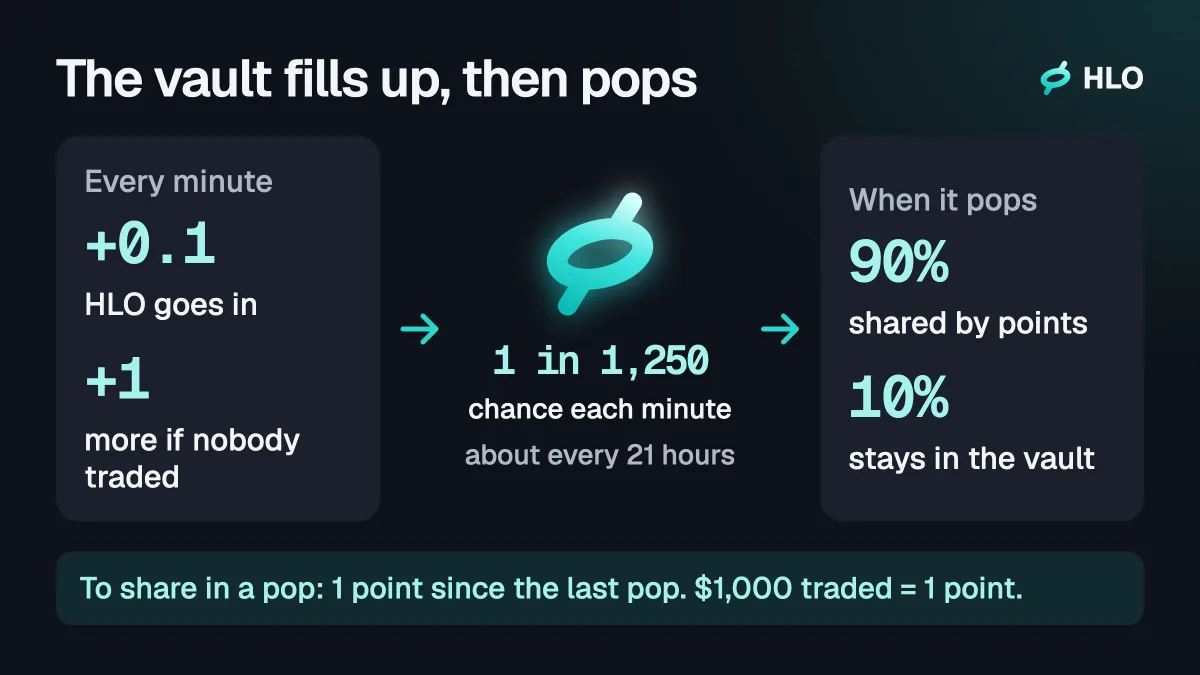
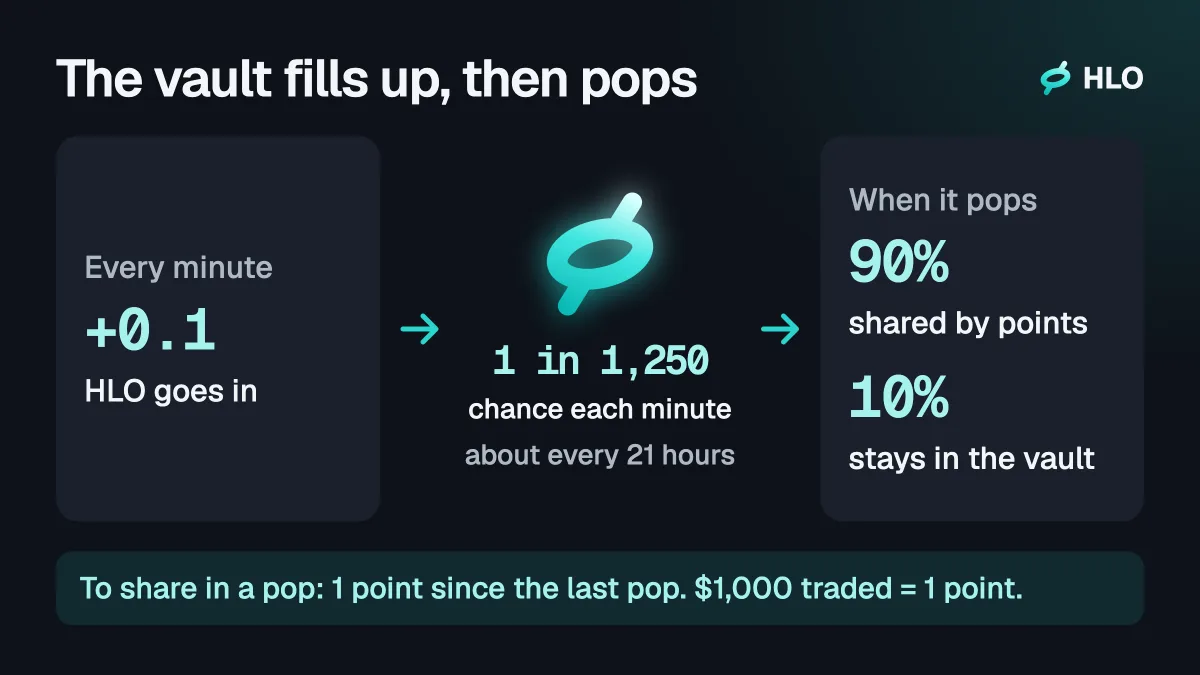
Minutes nobody trades mine nothing (999 from minute 2220): the vault gains only its 0.1 HLO; no contract change

Changed region(s): [[0.0617, 0.3111, 0.2467, 0.7467], [0.0617, 0.2489, 0.2467, 0.28]]

diff --git a/calc/test/checkpoint.property.test.ts b/calc/test/checkpoint.property.test.ts
@@ -29,7 +29,7 @@ describe("emission accounting", () => {
           let popCount = 0;
           let last;
           for (const end of ends) {
-            last = applyCheckpoint(s, { minimum: MINIMUM,
+            last = applyCheckpoint(s, { minimum: MINIMUM, quietFrom: null,
               throughMinute: end, refBlock: 1n, rows: rows.filter((r) => r.minute >= from && r.minute <= end),
               seeds: seedsFor(from, end, { odds: ODDS, pop }), burned: 0n, refined: 0n, claimed: new Map(),
             });
@@ -42,6 +42,47 @@ describe("emission accounting", () => {
           expect(toTraders + popped + last!.vault).toBe(30n * 11n * 10n ** 17n);
           expect(last!.totalEntitled).toBe(toTraders + popped);
           expect(popCount).toBe(pop.length);
+        },
+      ),
+    );
+  });
+});
+
+describe("minutes nobody trades (spec 2026-11-04)", () => {
+  it("from quietFrom on, a minute without fees adds only 0.1 HLO; the money still adds up, however the minutes are split", () => {
+    fc.assert(
+      fc.property(
+        fc.array(fc.tuple(fc.integer({ min: 0, max: 29 }), fc.integer({ min: 0, max: 2 }), fc.bigInt({ min: 1n, max: 10n ** 9n })), { maxLength: 20 }),
+        fc.array(fc.integer({ min: 0, max: 29 }), { maxLength: 6 }),
+        popBits,
+        fc.integer({ min: 0, max: 31 }),
+        (raw, cuts, bits, quietFrom) => {
+          const rows: FeeRow[] = raw.map(([minute, u, fee]) => ({ minute, user: USERS[u], fee }));
+          const pop = popList(bits);
+          const ends = [...new Set([...cuts, 29])].sort((a, b) => a - b);
+          const s = newCalcState(0, ODDS);
+          let from = 0;
+          let toTraders = 0n;
+          let popped = 0n;
+          let emitted = 0n;
+          let last;
+          for (const end of ends) {
+            last = applyCheckpoint(s, {
+              minimum: MINIMUM, quietFrom, throughMinute: end, refBlock: 1n, rows: rows.filter((r) => r.minute >= from && r.minute <= end),
+              seeds: seedsFor(from, end, { odds: ODDS, pop }), burned: 0n, refined: 0n, claimed: new Map(),
+            });
+            toTraders += last.toTraders;
+            emitted += last.emitted;
+            popped += last.pops.reduce((a, p) => a + p.amount, 0n);
+            from = end + 1;
+          }
+          const traded = new Set(rows.map((r) => r.minute));
+          let want = 0n;
+          for (let m = 0; m < 30; m++) want += m >= quietFrom && !traded.has(m) ? 10n ** 17n : 11n * 10n ** 17n;
+          expect(emitted).toBe(want);
+          expect(s.emitted).toBe(want);
+          expect(toTraders + popped + last!.vault).toBe(want);
+          expect(last!.totalEntitled).toBe(toTraders + popped);
         },
       ),
     );
@@ -70,9 +111,9 @@ describe("two checkpoints from a random starting state", () => {
           const pop = popList(bits);
           const s = newCalcState(0, ODDS);
           s.emitted = MAX_SUPPLY - POOL_RESERVE - headroom;
-          const r1 = applyCheckpoint(s, { minimum: MINIMUM, throughMinute: cut, refBlock: 1n, rows: rows.filter((r) => r.minute <= cut), seeds: seedsFor(0, cut, { odds: ODDS, pop }), burned: burned1, refined: refined1, claimed: toMap(claimed1) });
+          const r1 = applyCheckpoint(s, { minimum: MINIMUM, quietFrom: null, throughMinute: cut, refBlock: 1n, rows: rows.filter((r) => r.minute <= cut), seeds: seedsFor(0, cut, { odds: ODDS, pop }), burned: burned1, refined: refined1, claimed: toMap(claimed1) });
           const burned2 = burned1 + extraBurn;
-          const r2 = applyCheckpoint(s, { minimum: MINIMUM, throughMinute: 29, refBlock: 2n, rows: rows.filter((r) => r.minute > cut), seeds: seedsFor(cut + 1, 29, { odds: ODDS, pop }), burned: burned2, refined: refined2, claimed: toMap(claimed2) });
+          const r2 = applyCheckpoint(s, { minimum: MINIMUM, quietFrom: null, throughMinute: 29, refBlock: 2n, rows: rows.filter((r) => r.minute > cut), seeds: seedsFor(cut + 1, 29, { odds: ODDS, pop }), burned: burned2, refined: refined2, claimed: toMap(claimed2) });
 
           // (a) each checkpoint emits 1.1 HLO a minute until the supply room (cap - reserve + burned) runs out, counted from the starting emission
           const perMinute = HLO + HLO / 10n;

diff --git a/calc/test/checkpoint.test.ts b/calc/test/checkpoint.test.ts
@@ -14,10 +14,61 @@ const row = (minute: number, user: `0x${string}`, fee: bigint): FeeRow => ({ min
 /** The next checkpoint for `s` through `throughMinute`, with seeds for exactly its minutes that pop at `pop`. */
 const input = (s: CalcState, o: Partial<CheckpointInput> & { throughMinute: number; pop?: number[] }): CheckpointInput => {
   const { pop, ...rest } = o;
-  return { refBlock: 10n, rows: [], burned: 0n, refined: 0n, claimed: new Map(), minimum: NO_MINIMUM, seeds: seedsFor(s.nextMinute, o.throughMinute, { odds: s.odds, pop }), ...rest };
+  return { refBlock: 10n, rows: [], burned: 0n, refined: 0n, claimed: new Map(), minimum: NO_MINIMUM, quietFrom: null, seeds: seedsFor(s.nextMinute, o.throughMinute, { odds: s.odds, pop }), ...rest };
 };
 /** For inputs whose minute range is itself the fault (no seeds can be built for it). */
-const RAW = { refBlock: 10n, rows: [], burned: 0n, refined: 0n, claimed: new Map(), minimum: NO_MINIMUM, seeds: [] };
+const RAW = { refBlock: 10n, rows: [], burned: 0n, refined: 0n, claimed: new Map(), minimum: NO_MINIMUM, quietFrom: null, seeds: [] };
+
+describe("minutes nobody trades (spec 2026-11-04)", () => {
+  it("before quietFrom an empty minute sends its 1 HLO to the vault; from quietFrom on it is never made", () => {
+    const s = newCalcState(0, ODDS);
+    const r = applyCheckpoint(s, input(s, { throughMinute: 3, quietFrom: 2 }));
+    // m0, m1: 1 + 0.1 each into the vault. m2, m3: only the 0.1.
+    expect(r.emitted).toBe(24n * E);
+    expect(r.toVault).toBe(24n * E);
+    expect(r.vault).toBe(24n * E);
+    expect(s.emitted).toBe(24n * E);
+    expect(r.totalEntitled).toBe(0n);
+  });
+
+  it("a minute with a trader is unchanged: the trader gets the 1 HLO, the vault the 0.1", () => {
+    const s = newCalcState(0, ODDS);
+    const r = applyCheckpoint(s, input(s, { throughMinute: 2, quietFrom: 0, rows: [row(1, A, 5n)] }));
+    expect(r.entitlements.get(A)).toBe(10n * E);
+    expect(r.toTraders).toBe(10n * E);
+    expect(r.vault).toBe(3n * E);
+    expect(r.emitted).toBe(13n * E);
+  });
+
+  it("null keeps the launch rule", () => {
+    const s = newCalcState(0, ODDS);
+    expect(applyCheckpoint(s, input(s, { throughMinute: 1, quietFrom: null })).vault).toBe(22n * E);
+  });
+
+  it("a pop after quiet minutes shares a smaller vault", () => {
+    const s = newCalcState(0, ODDS);
+    const r = applyCheckpoint(s, input(s, { throughMinute: 2, quietFrom: 0, rows: [row(0, A, 100n)], pop: [2] }));
+    // m0: A 1 HLO, vault 0.1. m1, m2: 0.1 each → 0.3; it pops: A gets 0.27, 0.03 stays.
+    expect(r.pops).toEqual([{ minute: 2, block: 1002n, amount: (27n * E) / 10n, kept: (3n * E) / 10n, recipients: 1, pointsTotal: 100n }]);
+    expect(r.vault).toBe((3n * E) / 10n);
+  });
+
+  it("checkpoints split across quietFrom give the same state as one", () => {
+    const rows = [row(0, A, 3n), row(4, B, 7n)];
+    const one = newCalcState(0, ODDS);
+    applyCheckpoint(one, input(one, { throughMinute: 6, quietFrom: 3, rows, pop: [5] }));
+    const two = newCalcState(0, ODDS);
+    applyCheckpoint(two, input(two, { throughMinute: 2, quietFrom: 3, rows: rows.filter((r) => r.minute <= 2), pop: [5] }));
+    applyCheckpoint(two, input(two, { throughMinute: 6, quietFrom: 3, rows: rows.filter((r) => r.minute > 2), pop: [5] }));
+    expect(serializeState(two)).toBe(serializeState(one));
+  });
+
+  it("a quietFrom that is not a safe integer throws before touching the state", () => {
+    const s = newCalcState(0, ODDS);
+    expect(() => applyCheckpoint(s, input(s, { throughMinute: 0, quietFrom: 1.5 }))).toThrow(/quietFrom 1.5 is not a safe integer/);
+    expect(s.nextMinute).toBe(0);
+  });
+});
 
 describe("the minimum to share in a pop", () => {
   const ONE = 100_000_000n; // 1 point in fee units

diff --git a/ops/src/scale-check.ts b/ops/src/scale-check.ts
@@ -1,7 +1,7 @@
 import { createHash } from "node:crypto";
 import { getHeapStatistics } from "node:v8";
 import { gzipSync } from "node:zlib";
-import { applyCheckpoint, buildTree, deserializeState, newCalcState, popMinimum, popOdds, serializeState, type Addr, type FeeRow, type Seed } from "@hlo/calc";
+import { applyCheckpoint, buildTree, deserializeState, newCalcState, popMinimum, popOdds, quietMinuteFrom, serializeState, type Addr, type FeeRow, type Seed } from "@hlo/calc";
 import type { Address, Hex } from "viem";
 import { buildFiles, buildUserFiles, LATEST_PATH } from "./checkpoint-files.js";
 import { toJson } from "./publish.js";
@@ -37,7 +37,7 @@ console.log(`${WALLETS} wallets (heap limit ${mb(getHeapStatistics().heap_size_l
 const state = newCalcState(LAUNCH, popOdds(CHAIN));
 // Minute 0: every wallet trades.
 const rows: FeeRow[] = Array.from({ length: WALLETS }, (_, i) => ({ minute: 0, user: addr(i + 1), fee: 100_000_000n + BigInt(i) }));
-const result = timed("applyCheckpoint (minute 0, every wallet trades)", () => applyCheckpoint(state, { minimum: popMinimum(CHAIN), throughMinute: 0, refBlock: 2n, rows, seeds: [seed(0)], burned: 0n, refined: 0n, claimed: new Map() }));
+const result = timed("applyCheckpoint (minute 0, every wallet trades)", () => applyCheckpoint(state, { minimum: popMinimum(CHAIN), quietFrom: quietMinuteFrom(CHAIN), throughMinute: 0, refBlock: 2n, rows, seeds: [seed(0)], burned: 0n, refined: 0n, claimed: new Map() }));
 const tree = timed("buildTree", () => buildTree(result.entitlements));
 timed("all proofs", () => tree.proofs);
 const args = { chainId: CHAIN, contract: CONTRACT, throughMinute: 0, refBlock: 2n, sig: SIG, publishedAt: LAUNCH + 70, rows: [], result, tree, pops: [] };
@@ -52,7 +52,7 @@ console.log(`user files: ${files.size}; largest ${mb(Math.max(...bodies.map((b) 
 const second: FeeRow[] = Array.from({ length: Math.min(TRADERS, WALLETS) }, (_, i) => ({ minute: 1, user: addr(i + 1), fee: 50_000_000n }));
 const claimed = new Map<Addr, bigint>(Array.from({ length: Math.min(TRADERS, WALLETS) }, (_, i) => [addr(i + 1), 1n] as const));
 const copy = timed("state copy (serialize + deserialize, as the poster does each minute)", () => deserializeState(serializeState(state)));
-const result2 = timed(`applyCheckpoint (minute 1, ${second.length} wallets trade, refining over all)`, () => applyCheckpoint(copy, { minimum: popMinimum(CHAIN), throughMinute: 1, refBlock: 3n, rows: second, seeds: [seed(1)], burned: 0n, refined: 10n ** 18n, claimed }));
+const result2 = timed(`applyCheckpoint (minute 1, ${second.length} wallets trade, refining over all)`, () => applyCheckpoint(copy, { minimum: popMinimum(CHAIN), quietFrom: quietMinuteFrom(CHAIN), throughMinute: 1, refBlock: 3n, rows: second, seeds: [seed(1)], burned: 0n, refined: 10n ** 18n, claimed }));
 const tree2 = timed("buildTree", () => buildTree(result2.entitlements));
 console.log(`root ${tree2.root.slice(0, 10)}…, ${tree2.leaves} leaves`);
 

diff --git a/calc/src/checkpoint.ts b/calc/src/checkpoint.ts
@@ -36,6 +36,7 @@ export interface CheckpointInput {
   refined: bigint; // Σ Mining.Claimed.refined in (previous refBlock, refBlock]
   claimed: ReadonlyMap<Addr, bigint>; // Mining.claimed[user] at refBlock
   minimum: PopMinimum; // popMinimum(chainId): the least a wallet needs to share in a pop
+  quietFrom: number | null; // quietMinuteFrom(chainId): from this minute on, a minute nobody trades mines no trader HLO
 }
 
 /** One pop of the vault (spec 2026-10-30 §2 rule 6). */
@@ -126,9 +127,9 @@ function pop(s: CalcState, minute: number, block: bigint, least: bigint): VaultP
 }
 
 /**
- * Settles minutes nextMinute..throughMinute (spec 2026-10-29 §3 as changed by 2026-10-30 §2): per minute the trader
- * emission, the vault part and dust into the vault, the fees into the points, then the pop test on the minute's seed.
- * Then shares refining. Mutates `s`.
+ * Settles minutes nextMinute..throughMinute (spec 2026-10-29 §3 as changed by 2026-10-30 §2 and 2026-11-04): per minute
+ * the trader emission (none in a minute nobody traded, from `quietFrom` on), the vault part and dust into the vault, the
+ * fees into the points, then the pop test on the minute's seed. Then shares refining. Mutates `s`.
  */
 export function applyCheckpoint(s: CalcState, c: CheckpointInput): CheckpointResult {
   // Validate before touching the state, so a throw leaves `s` unchanged.
@@ -137,6 +138,7 @@ export function applyCheckpoint(s: CalcState, c: CheckpointInput): CheckpointRes
   if (c.refined < 0n) throw new Error(`refined ${c.refined} is negative`);
   if (c.throughMinute < s.nextMinute) throw new Error(`minute ${c.throughMinute} is already checkpointed`);
   if (c.refBlock < s.refBlock) throw new Error(`refBlock ${c.refBlock} is below ${s.refBlock}`);
+  if (c.quietFrom !== null && !Number.isSafeInteger(c.quietFrom)) throw new Error(`quietFrom ${c.quietFrom} is not a safe integer`);
   const first = s.nextMinute;
   const count = c.throughMinute - first + 1;
   if (c.seeds.length !== count) throw new Error(`${c.seeds.length} seeds for the ${count} minutes ${first}..${c.throughMinute}`);
@@ -158,15 +160,17 @@ export function applyCheckpoint(s: CalcState, c: CheckpointInput): CheckpointRes
   const pops: VaultPop[] = [];
 
   for (let m = first; m <= c.throughMinute; m++) {
+    const f = fees.get(m);
+    let F = 0n;
+    if (f) for (const v of f.values()) F += v;
+    const quiet = F === 0n && c.quietFrom !== null && m >= c.quietFrom;
+
     const left = room > s.emitted ? room - s.emitted : 0n;
-    const trader = min(TRADER_PER_MINUTE, left);
+    const trader = quiet ? 0n : min(TRADER_PER_MINUTE, left);
     const vaultPart = min(VAULT_PER_MINUTE, left - trader);
     s.emitted += trader + vaultPart;
     emitted += trader + vaultPart;
 
-    const f = fees.get(m);
-    let F = 0n;
-    if (f) for (const v of f.values()) F += v;
     let paid = 0n;
     if (f && F > 0n) {
       for (const [u, v] of f) {

diff --git a/ops/test/checkpoint-files.test.ts b/ops/test/checkpoint-files.test.ts
@@ -21,7 +21,7 @@ const LAUNCH = 1_800_000_000;
 function args(): BuildArgs {
   const s = newCalcState(LAUNCH, popOdds(998));
   const rows: FeeRow[] = [{ minute: 0, user: A, fee: 100n }, { minute: 1, user: A, fee: 100n }, { minute: 1, user: B, fee: 300n }];
-  const result = applyCheckpoint(s, { minimum: { fromMinute: 0, units: 0n }, throughMinute: 1, refBlock: 10n, rows, seeds: seedsFor(0, 1, { odds: 60 }), burned: 0n, refined: 0n, claimed: new Map() });
+  const result = applyCheckpoint(s, { minimum: { fromMinute: 0, units: 0n }, quietFrom: null, throughMinute: 1, refBlock: 10n, rows, seeds: seedsFor(0, 1, { odds: 60 }), burned: 0n, refined: 0n, claimed: new Map() });
   const tree = buildTree(result.entitlements);
   return {
     chainId: 998, contract: CONTRACT, throughMinute: 1, refBlock: 10n, sig: SIG, publishedAt: LAUNCH + 130, rows, result, tree,
@@ -200,7 +200,7 @@ function userArgs(): BuildArgs {
   const s = newCalcState(LAUNCH, popOdds(998));
   const rows: FeeRow[] = [W1, W2, W3, W4].map((user, i) => ({ minute: 1, user, fee: BigInt(100 * (i + 1)) }));
   const a = args();
-  const result = applyCheckpoint(s, { minimum: { fromMinute: 0, units: 0n }, throughMinute: 1, refBlock: 10n, rows, seeds: seedsFor(0, 1, { odds: 60 }), burned: 0n, refined: 0n, claimed: new Map() });
+  const result = applyCheckpoint(s, { minimum: { fromMinute: 0, units: 0n }, quietFrom: null, throughMinute: 1, refBlock: 10n, rows, seeds: seedsFor(0, 1, { odds: 60 }), burned: 0n, refined: 0n, claimed: new Map() });
   result.points.set(PTS, 5n);
   result.totals.set(PTS, { fees: 5n, mined: 0n, fromVault: 0n, refined: 0n });
   result.totals.set(TOT, { fees: 9n, mined: 0n, fromVault: 0n, refined: 0n });
@@ -305,7 +305,7 @@ describe("buildUserFiles", () => {
 
   it("an empty checkpoint has no files", () => {
     const s = newCalcState(LAUNCH, popOdds(998));
-    const result = applyCheckpoint(s, { minimum: { fromMinute: 0, units: 0n }, throughMinute: 0, refBlock: 10n, rows: [], seeds: seedsFor(0, 0, { odds: 60 }), burned: 0n, refined: 0n, claimed: new Map() });
+    const result = applyCheckpoint(s, { minimum: { fromMinute: 0, units: 0n }, quietFrom: null, throughMinute: 0, refBlock: 10n, rows: [], seeds: seedsFor(0, 0, { odds: 60 }), burned: 0n, refined: 0n, claimed: new Map() });
     expect(buildUserFiles({ ...args(), throughMinute: 0, rows: [], result, tree: buildTree(result.entitlements) }).size).toBe(0);
   });
 

diff --git a/calc/src/pop.ts b/calc/src/pop.ts
@@ -45,6 +45,20 @@ export function popMinimum(chainId: number): PopMinimum {
 
 export const minimumAt = (rule: PopMinimum, minute: number): bigint => (minute >= rule.fromMinute ? rule.units : 0n);
 
+/**
+ * From this minute on, a minute nobody trades (no counted fee) makes no trader HLO: its 1 HLO is never mined, so the
+ * vault gains only its 0.1 (spec 2026-11-04). Before it, that 1 HLO went into the vault, and a fresh verifier replays
+ * those minutes that way. 999 changed at minute 2220 (2026-11-04 01:01 UTC); 998 keeps the launch rule (null: never); anvil from
+ * launch.
+ */
+const QUIET_FROM: Readonly<Record<number, number | null>> = { 999: 2220, 998: null, 31337: 0 };
+
+export function quietMinuteFrom(chainId: number): number | null {
+  const q = Object.hasOwn(QUIET_FROM, chainId) ? QUIET_FROM[chainId] : undefined;
+  if (q === undefined) throw new Error(`no quiet-minute rule for chain ${chainId}`);
+  return q;
+}
+
 /** Spec §2 rule 3: minute m pops if uint256(keccak256(abi.encodePacked(bytes32 hash(B(m)), uint256 m))) % odds == 0. */
 export function popsAt(hash: Hex, minute: number, odds: number): boolean {
   return BigInt(keccak256(encodePacked(["bytes32", "uint256"], [hash, BigInt(minute)]))) % BigInt(odds) === 0n;

diff --git a/ops/src/verifier.ts b/ops/src/verifier.ts
@@ -1,5 +1,5 @@
 import {
-  applyCheckpoint, buildTree, countedFee, DAY, dayOf, deserializeState, minuteOf, newCalcState, parseTableCsv, popMinimum, popOdds, serializeState,
+  applyCheckpoint, buildTree, countedFee, DAY, dayOf, deserializeState, minuteOf, newCalcState, parseTableCsv, popMinimum, popOdds, quietMinuteFrom, serializeState,
   type Addr, type ApiFill, type CalcState, type FeeRow, type Seed,
 } from "@hlo/calc";
 import type { Address, Hex } from "viem";
@@ -409,7 +409,7 @@ export class Verifier {
       throw e;
     }
     const next = deserializeState(serializeState(this.state));
-    const result = applyCheckpoint(next, { throughMinute: M, refBlock, rows, seeds, burned: snap.burned, refined: snap.refined, claimed: snap.claimed, minimum: popMinimum(this.deps.chainId) });
+    const result = applyCheckpoint(next, { throughMinute: M, refBlock, rows, seeds, burned: snap.burned, refined: snap.refined, claimed: snap.claimed, minimum: popMinimum(this.deps.chainId), quietFrom: quietMinuteFrom(this.deps.chainId) });
     const root = buildTree(result.entitlements).root;
     const replayProblems: string[] = [];
     if (lower(root) !== lower(file.root)) replayProblems.push(`root: file ${file.root}, replay ${root}`);

diff --git a/ops/src/poster.ts b/ops/src/poster.ts
@@ -1,5 +1,5 @@
 import {
-  applyCheckpoint, buildTree, deserializeState, newCalcState, popMinimum, popOdds, serializeState, type CalcState, type Seed,
+  applyCheckpoint, buildTree, deserializeState, newCalcState, popMinimum, popOdds, quietMinuteFrom, serializeState, type CalcState, type Seed,
 } from "@hlo/calc";
 import type { Address, Hex } from "viem";
 import {
@@ -293,7 +293,7 @@ export class Poster {
     // Work on a copy: nothing in memory moves until the write-ahead file is on disk.
     const next = deserializeState(serializeState(this.state));
     const rows = d.ingest.rows(M, M);
-    const result = applyCheckpoint(next, { throughMinute: M, refBlock, rows, seeds, burned: snap.burned, refined: snap.refined, claimed: snap.claimed, minimum: popMinimum(d.chainId) });
+    const result = applyCheckpoint(next, { throughMinute: M, refBlock, rows, seeds, burned: snap.burned, refined: snap.refined, claimed: snap.claimed, minimum: popMinimum(d.chainId), quietFrom: quietMinuteFrom(d.chainId) });
     const tree = buildTree(result.entitlements);
     await d.checkSigner();
     const sig = await d.sign({ throughMinute: M, refBlock, root: tree.root, totalEntitled: result.totalEntitled });

diff --git a/ops/test/verifier.test.ts b/ops/test/verifier.test.ts
@@ -946,6 +946,20 @@ describe("recovery: former posters, cancelled minutes, guardian actions", () => 
   });
 });
 
+describe("minutes nobody trades (spec 2026-11-04)", () => {
+  it("the poster and verifier both apply the chain's quiet-minute rule: on anvil a minute with no fee adds only 0.1 HLO", async () => {
+    // anvil: odds 1 (every minute pops), no minimum, quiet minutes from launch. A trades in minute 0 only.
+    const fx = await posterRun({ minutes: 4, chainId: 31337, fills: { [A]: [good(1, (L + 5) * 1000)] } });
+    const latest = JSON.parse(fx.files.get("latest.json")!);
+    // m0: A 1 HLO, vault 0.1, pops: A 0.09, 0.01 stays. m1..m3: +0.1 each, popping with no points: 0.31 (the launch rule: 3.31).
+    expect(latest.vault.amount).toBe((31n * 10n ** 16n).toString());
+    const f = verifier(fx, { chainId: 31337 });
+    expect(await f.v.tick()).toBe("ok");
+    expect(f.alerts).toEqual([]);
+    expect(f.pause).not.toHaveBeenCalled();
+  });
+});
+
 describe("Verifier.tick: a missing file", () => {
   it("waits quietly for 5 minutes past the minute's end, then alerts once for that minute", async () => {
     const fx = await posterRun({ minutes: 2 });

diff --git a/app/test/helpers/checkpoint-fixture.ts b/app/test/helpers/checkpoint-fixture.ts
@@ -31,7 +31,7 @@ export async function makeLatest(opts: { signer?: typeof FIX_POSTER_ACCOUNT; thr
   const rows: FeeRow[] = [];
   for (let m = 0; m <= through; m++) FIX_USERS.forEach((u, i) => rows.push({ minute: m, user: u as Addr, fee: BigInt((i + 1) * 100_000_000 + m) }));
   const seeds = seedsFor(0, through, { odds, pop: [FIX_POP_MINUTE], block: (m) => 70n + BigInt(m) });
-  const result = applyCheckpoint(state, { minimum: { fromMinute: 0, units: 0n }, throughMinute: through, refBlock: FIX_REF_BLOCK, rows, seeds, burned: 0n, refined: 0n, claimed: new Map() });
+  const result = applyCheckpoint(state, { minimum: { fromMinute: 0, units: 0n }, quietFrom: null, throughMinute: through, refBlock: FIX_REF_BLOCK, rows, seeds, burned: 0n, refined: 0n, claimed: new Map() });
   const tree = buildTree(result.entitlements);
   const cp = { throughMinute: through, refBlock: FIX_REF_BLOCK, root: tree.root as Hex, totalEntitled: result.totalEntitled };
   const sig = await signCheckpoint(opts.signer ?? FIX_POSTER_ACCOUNT, FIX_CHAIN_ID, FIX_CONTRACT, cp);

diff --git a/calc/test/pop.test.ts b/calc/test/pop.test.ts
@@ -1,7 +1,7 @@
 import fc from "fast-check";
 import { concat, keccak256, pad, toHex, type Hex } from "viem";
 import { describe, expect, it } from "vitest";
-import { popOdds, popsAt } from "../src/index.js";
+import { popOdds, popsAt, quietMinuteFrom } from "../src/index.js";
 
 describe("popOdds", () => {
   it("1,250 on 999, 60 on 998, 1 on anvil", () => {
@@ -36,5 +36,16 @@ describe("popsAt", () => {
     const draws = Array.from({ length: 200 }, (_, m) => popsAt(h1, m, 2));
     expect(draws.some(Boolean)).toBe(true);
     expect(draws.some((x) => !x)).toBe(true);
+  });
+});
+
+describe("quietMinuteFrom", () => {
+  it("999 from minute 2220, 998 never, anvil from launch", () => {
+    expect(quietMinuteFrom(999)).toBe(2220);
+    expect(quietMinuteFrom(998)).toBeNull();
+    expect(quietMinuteFrom(31337)).toBe(0);
+  });
+  it("any other chain throws", () => {
+    for (const c of [1, 0, 42161]) expect(() => quietMinuteFrom(c), String(c)).toThrow(/no quiet-minute rule for chain/);
   });
 });

diff --git a/ops/src/e2e.ts b/ops/src/e2e.ts
@@ -300,8 +300,8 @@ async function main() {
     const users3 = usersOf(latest3);
     const pop3 = latest3.pops[0];
     check(
-      pop3.minute === 3 && pop3.amount === "0" && pop3.recipients === 0 && pop3.kept === (BigInt(latest.vault.amount) + 11n * 10n ** 17n).toString(),
-      "minute 3 (nobody traded) popped with no points: it paid nothing and the vault kept everything, 1.1 HLO more",
+      pop3.minute === 3 && pop3.amount === "0" && pop3.recipients === 0 && pop3.kept === (BigInt(latest.vault.amount) + 10n ** 17n).toString(),
+      "minute 3 (nobody traded) popped with no points: it paid nothing and the vault kept everything, 0.1 HLO more (a minute nobody trades mines no trader HLO)",
     );
     check(BigInt(latest3.totalEntitled) >= BigInt(latest.totalEntitled), "totalEntitled did not decrease");
     // Claimed event -> tracker -> poster: minute 3 has no traders and #5 has claimed everything it had, so the whole refining pool
